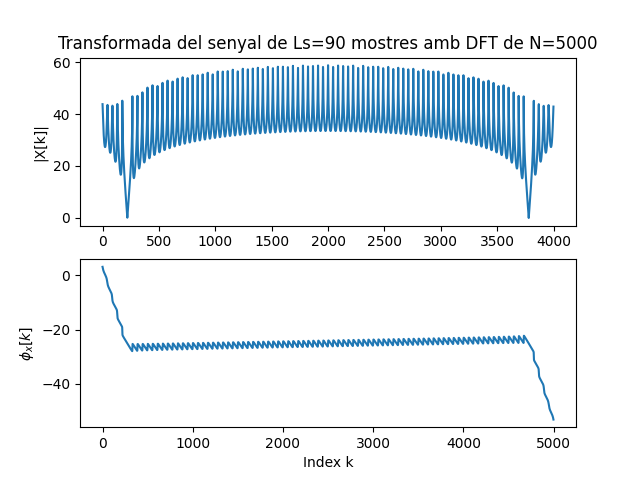
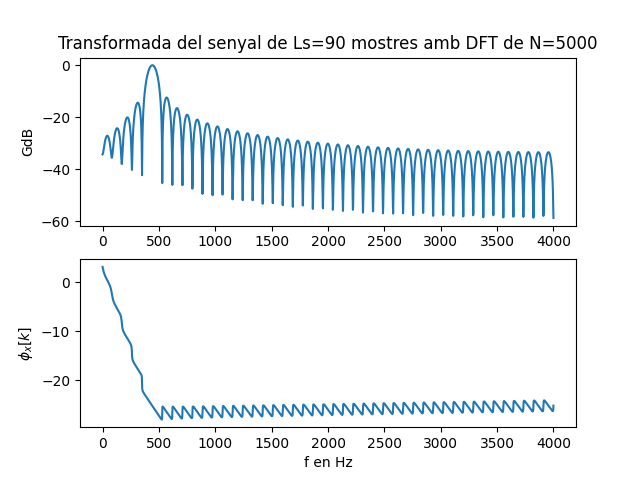
pràctica 1

diff --git a/asa_codi.py b/asa_codi.py
@@ -91,7 +91,7 @@ t=Tm* np.arange(len(x_r))
 sf.write('nom_fitxerej2.wav', x_r, fm)   
 
 #  - Insereix a continuació una gràfica que mostri 5 períodes del senyal i la seva transformada.
-fx=4000
+fx=fm/2
 Tx=1/fx                                   # Període del senyal
 Ls=int(fm*5*Tx)                           # Nombre de mostres corresponents a 5 períodes de la sinusoide
 
@@ -143,18 +143,19 @@ sd.play(x, fm)
 
 
 N=5000                        
-X=fft(x[0 : Ls], N)          
-k=np.arange(N)                       
-FK=k/N * fm                           #Calcul de la fk, pels valors de l'eix d'abscisses
+X=fft(x[0 : Ls], N)        
+k=np.arange(N)                                            
 plt.figure(32)                         
-plt.subplot(211)                     
-plt.plot(FK/2,abs(20*np.log10(X/max(X))))  # Representació del mòdul de la transformada en dB y de 0 a FK/2
+GdB = 20*np.log10(np.abs(X)/max(np.abs(X)))
+fk = k[0:N//2+1]*fm/N         #Calcul de la fk, pels valors de l'eix d'abscisses
+plt.subplot(211)   
+plt.plot(fk,GdB[0:N//2+1])  # Representació del mòdul de la transformada en dB y de 0 a FK/2
 plt.title(f'Transformada del senyal de Ls={Ls} mostres amb DFT de N={N}')   
-plt.ylabel('|X[k]|')                
-plt.subplot(212)                     
-plt.plot(k,np.unwrap(np.angle(X)) )   
-plt.xlabel('Index k')                
-plt.ylabel('$\phi_x[k]$')             
+plt.ylabel('GdB')                  
+plt.subplot(212)                      
+plt.plot(fk,np.unwrap(np.angle(X[0:N//2+1])) )   
+plt.xlabel('f en Hz')                
+plt.ylabel('$\phi_x[k]$')              
 plt.show() 
 
 #--------------------------------------------------------------------------------------
@@ -175,17 +176,17 @@ plt.show()
 
 
 N=5000                        
-X=fft(data[0 : L], N)       
-k=np.arange(N)                        
-FK=k/N * fm
-k2=np.arange(len(FK/2),len(FK))                       
+X=fft(data[0 : L], N)    
+k=np.arange(N)                                         
 plt.figure(42)                         
-plt.subplot(211)                      
-plt.plot(k2,abs(20*np.log10(int(X[fm/2:fm])/max(int(X[fm/2:fm]))))) 
+GdB = 20*np.log10(np.abs(X)/max(np.abs(X)))
+fk = k[0:N//2+1]*fm/N
+plt.subplot(211)   
+plt.plot(fk,GdB[0:N//2+1])  # Representació del mòdul de la transformada en dB y de 0 a FK/2
 plt.title(f'Transformada del senyal de Ls={L} mostres amb DFT de N={N}')   
-plt.ylabel('|X[k]|')                 
+plt.ylabel('GdB')                  
 plt.subplot(212)                      
-plt.plot(k2,np.unwrap(np.angle(X)) )   
-plt.xlabel('Index k')                  
-plt.ylabel('$\phi_x[k]$')            
+plt.plot(fk,np.unwrap(np.angle(X[0:N//2+1])) )   
+plt.xlabel('f en Hz')                
+plt.ylabel('$\phi_x[k]$')          
 plt.show() 

diff --git a/README.md b/README.md
@@ -211,7 +211,7 @@ sf.write('nom_fitxerej2.wav', x_r, fm)
     - Insereix a continuació una gràfica que mostri 5 períodes del senyal i la seva transformada.
 
 ```python
-fx=4000
+fx=fm/2
 Tx=1/fx                                   # Període del senyal
 Ls=int(fm*5*Tx)                           # Nombre de mostres corresponents a 5 períodes de la sinusoide
 
@@ -243,7 +243,8 @@ plt.show()
 ```
 <img src="img/Figure_22.png" width="480" align="center"> 
 
-    - Explica el resultat del apartat anterior.
+
+**- Explica el resultat del apartat anterior.**
 
 He utilitzat el senyal del fitxer que he creat amb fx= 4kHz, així podem observar que el resultat és el mateix que a l'apartat d'on he llegit el fitxer. Ja que també he decidit mirar 5 períodes i tant la informació com la freqüència de la sinosoide és la mateixa.
 
@@ -276,30 +277,34 @@ plt.show()
 
 ```python
 
+
 sd.play(x, fm)    
 
 
 N=5000                        
-X=fft(x[0 : Ls], N)          
-k=np.arange(N)                       
-FK=k/N * fm                           #Calcul de la fk, pels valors de l'eix d'abscisses
+X=fft(x[0 : Ls], N)        
+k=np.arange(N)                                            
 plt.figure(32)                         
-plt.subplot(211)                     
-plt.plot(FK/2,abs(20*np.log10(X/max(X))))  # Representació del mòdul de la transformada en dB y de 0 a FK/2
+GdB = 20*np.log10(np.abs(X)/max(np.abs(X)))
+fk = k[0:N//2+1]*fm/N         #Calcul de la fk, pels valors de l'eix d'abscisses
+plt.subplot(211)   
+plt.plot(fk,GdB[0:N//2+1])  # Representació del mòdul de la transformada en dB y de 0 a FK/2
 plt.title(f'Transformada del senyal de Ls={Ls} mostres amb DFT de N={N}')   
-plt.ylabel('|X[k]|')                
-plt.subplot(212)                     
-plt.plot(k,np.unwrap(np.angle(X)) )   
-plt.xlabel('Index k')                
-plt.ylabel('$\phi_x[k]$')             
+plt.ylabel('GdB')                  
+plt.subplot(212)                      
+plt.plot(fk,np.unwrap(np.angle(X[0:N//2+1])) )   
+plt.xlabel('f en Hz')                
+plt.ylabel('$\phi_x[k]$')              
 plt.show() 
+ 
 ```
 <img src="img/Figure_32.png" width="480" align="center"> 
 
-    - Comprova que la mesura de freqüència es correspon amb la freqüència de la sinusoide que has fet servir.
+**- Comprova que la mesura de freqüència es correspon amb la freqüència de la sinusoide que has fet servir.**
 
-    - Com pots identificar l'amplitud de la sinusoide a partir de la representació de la transformada?
-      Comprova-ho amb el senyal generat.
+**- Com pots identificar l'amplitud de la sinusoide a partir de la representació de la transformada.Comprova-ho amb el senyal generat.**
+
+No es pot fer perquè en normalitzar pel màxim dóna un 1.
 
 > NOTES:
 >
@@ -317,9 +322,50 @@ plt.show()
     - Freqüència de mostratge.
     - Nombre de mostres de senyal.
     - Tria un segment de senyal de 25ms i insereix una gráfica amb la seva evolució temporal.
-    - Representa la seva transformada en dB en funció de la freqüència, en el marge $f_m\le f\le f_m/2$.
-    - Quines son les freqüències més importants del segment triat?
+    - Representa la seva transformada en dB en funció de la freqüència, en el marge $0\le f\le f_m/2$.
+ 
+```python
+T= 0.025                               
+data, fm =sf.read('luzbel44.wav')       
+L = int(fm * T)                     
+Tm=1/fm                            
+t=Tm*np.arange(L)                  
+sf.write('nom_fitxerej4.wav', data, fm)  
 
+plt.figure(41)                          
+plt.plot(t[0:L],data[0:L])              
+plt.xlabel('t en segons')               
+plt.title('Exercici 4')  
+plt.show()                             
+```
+<img src="img/Figure_41.png" width="480" align="center"> 
+
+```python
+
+N=5000                        
+X=fft(data[0 : L], N)    
+k=np.arange(N)                                         
+plt.figure(42)                         
+GdB = 20*np.log10(np.abs(X)/max(np.abs(X)))
+fk = k[0:N//2+1]*fm/N
+plt.subplot(211)   
+plt.plot(fk,GdB[0:N//2+1])  # Representació del mòdul de la transformada en dB y de 0 a FK/2
+plt.title(f'Transformada del senyal de Ls={L} mostres amb DFT de N={N}')   
+plt.ylabel('GdB')                  
+plt.subplot(212)                      
+plt.plot(fk,np.unwrap(np.angle(X[0:N//2+1])) )   
+plt.xlabel('f en Hz')                
+plt.ylabel('$\phi_x[k]$')          
+plt.show() 
+
+```
+<img src="img/Figure_42.png" width="480" align="center"> 
+
+
+
+**- Quines son les freqüències més importants del segment triat?**
+
+En el segment que he triat les freqüències més importants son del 2kHz a 8kHz aproximadament.
 
 Entrega
 -------
